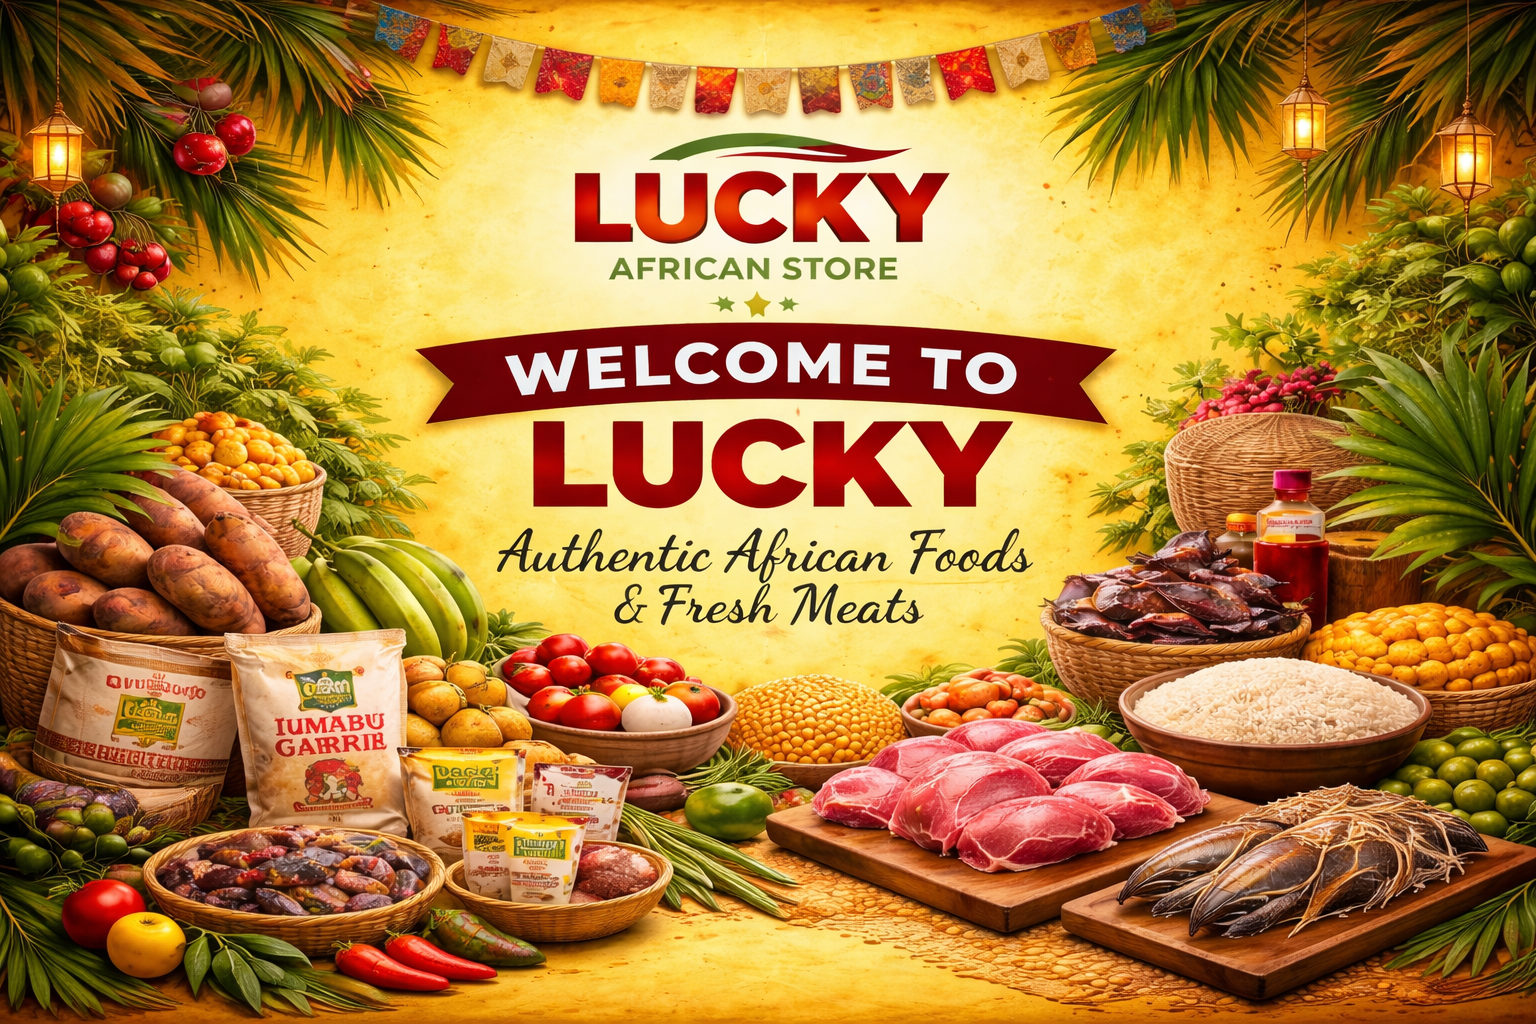
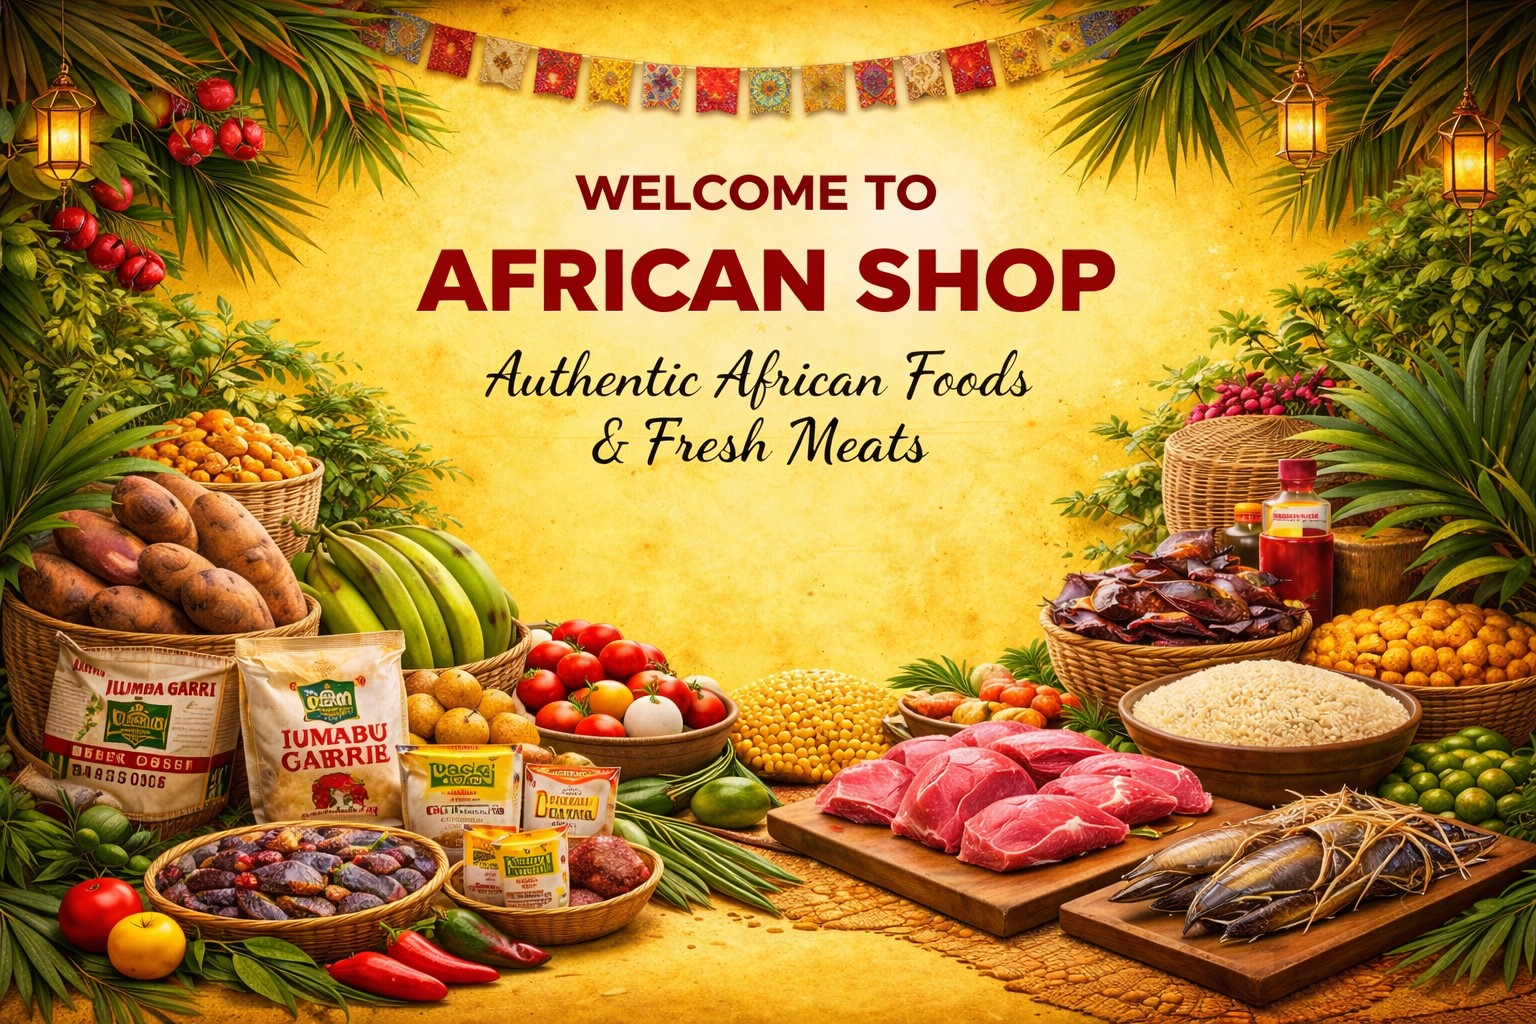
edited currency sign

diff --git a/bag/templates/bag/bag.html b/bag/templates/bag/bag.html
@@ -46,7 +46,7 @@
                                         <p class="my-0 small text-muted">SKU: {{ item.product.sku|upper }}</p>
                                     </td>
                                     <td class="py-3">
-                                        <p class="my-0">${{ item.product.price }}</p>
+                                        <p class="my-0">€{{ item.product.price }}</p>
                                     </td>
                                     <td class="py-3 w-25">
                                         <form class="form update-form" method="POST" action="{% url 'adjust_bag' item.item_id %}">
@@ -89,12 +89,12 @@
                             {% endfor %}
                             <tr>
                                 <td colspan="5" class="pt-5 text-right">
-                                    <h6><strong>Bag Total: ${{ total|floatformat:2 }}</strong></h6>
+                                    <h6><strong>Bag Total: €{{ total|floatformat:2 }}</strong></h6>
                                     <h6>Delivery: ${{ delivery|floatformat:2 }}</h6>
-                                    <h4 class="mt-4"><strong>Grand Total: ${{ grand_total|floatformat:2 }}</strong></h4>
+                                    <h4 class="mt-4"><strong>Grand Total: €{{ grand_total|floatformat:2 }}</strong></h4>
                                     {% if free_delivery_delta > 0 %}
                                         <p class="mb-1 text-danger">
-                                            You could get free delivery by spending just <strong>${{ free_delivery_delta }}</strong> more!
+                                            You could get free delivery by spending just <strong>€{{ free_delivery_delta }}</strong> more!
                                         </p>
                                     {% endif %}
                                 </td>

diff --git a/templates/base.html b/templates/base.html
@@ -41,7 +41,7 @@
   {% block extra_js %}
   {% endblock %}
 
-  <title>Oracle Shop {% block extra_title %}{% endblock %}</title>
+  <title>African Shop {% block extra_title %}{% endblock %}</title>
 </head>
 
 <body>
@@ -49,7 +49,7 @@
     <div id="topnav" class="row bg-white pt-lg-2 d-none d-lg-flex">
       <div class="col-12 col-lg-4 my-auto py-1 py-lg-0 text-center text-lg-left">
         <a href="{% url 'home' %}" class="nav-link main-logo-link">
-          <h2 class="logo-font text-black my-0"><strong>Oracle African Shop</strong> Dublin</h2>
+          <h2 class="logo-font text-black my-0"><strong>African </strong> Shop</h2>
         </a>
       </div>
       <div class="col-12 col-lg-4 my-auto py-1 py-lg-0">
@@ -120,7 +120,7 @@
     </div>
     <div id="delivery-banner" class="row text-center">
       <div class="col bg-black text-white">
-        <h4 class="logo-font my-1">Free delivery on orders over ${{ free_delivery_threshold }}!</h4>
+        <h4 class="logo-font my-1">Free delivery on orders over €{{ free_delivery_threshold }}!</h4>
       </div>
     </div>
   </header>

diff --git a/checkout/static/checkout/js/stripe_elements.js b/checkout/static/checkout/js/stripe_elements.js
@@ -27,3 +27,19 @@ var style = {
 };
 var card = elements.create('card', {style: style});
 card.mount('#card-element');
+
+// Handle realtime validation errors on the card element
+card.addEventListener('change', function (event) {
+    var errorDiv = document.getElementById('card-errors');
+    if (event.error) {
+        var html = `
+            <span class="icon" role="alert">
+                <i class="fas fa-times"></i>
+            </span>
+            <span>${event.error.message}</span>
+        `;
+        $(errorDiv).html(html);
+    } else {
+        errorDiv.textContent = '';        
+    }
+});

diff --git a/templates/includes/main-nav.html b/templates/includes/main-nav.html
@@ -41,7 +41,7 @@
                 Drinks
             </a>
             <div class="dropdown-menu border-0" aria-labelledby="homeware-link">
-                <a href="{% url 'products' %}?category=nigerian_soft_drinks" class="dropdown-item">Nigerian Soft Drinks</a>
+                <a href="{% url 'products' %}?category=DRINKS" class="dropdown-item">DRINKS</a>
 <a href="{% url 'products' %}?category=wines" class="dropdown-item">Wines</a>
 <a href="{% url 'products' %}?category=herbal_drinks" class="dropdown-item">Herbal Drinks</a>
             </div>

diff --git a/checkout/views.py b/checkout/views.py
@@ -1,19 +1,41 @@
 from django.shortcuts import render, redirect, reverse
 from django.contrib import messages
+from django.conf import settings
+
 from .forms import OrderForm
+from bag.contexts import bag_contents
+
+import stripe
 
 def checkout(request):
+    stripe_public_key = settings.STRIPE_PUBLIC_KEY
+    stripe_secret_key = settings.STRIPE_SECRET_KEY
+
     bag = request.session.get('bag', {})
     if not bag:
         messages.error(request, "There's nothing in your bag at the moment")
         return redirect(reverse('products'))
     
+    current_bag = bag_contents(request)
+    total = current_bag['grand_total']
+    stripe_total = round(total * 100)
+    stripe.api_key = stripe_secret_key
+    intent = stripe.PaymentIntent.create(
+        amount=stripe_total,
+        currency=settings.STRIPE_CURRENCY,
+    )
+    
     order_form = OrderForm()
+
+    if not stripe_public_key:
+        messages.warning(request, 'Stripe public key is missing. \
+            Did you forget to set it in your environment?')
+
     template = 'checkout/checkout.html'
     context = {
         'order_form': order_form,
-        'stripe_public_key': 'pk_test_51TDi3yRsGUaViriPtK6XkKqXzgfESE2w1li1M9Q7lpWI9FHrhrilI38SdEI2WSJo1PduenqkQf7ei7RmDyqFFpzX00oVLWzg4y',
-        'client_secret': 'test client secret',
+        'stripe_public_key': stripe_public_key,
+        'client_secret': intent.client_secret,
     }
 
     return render(request, template, context)
